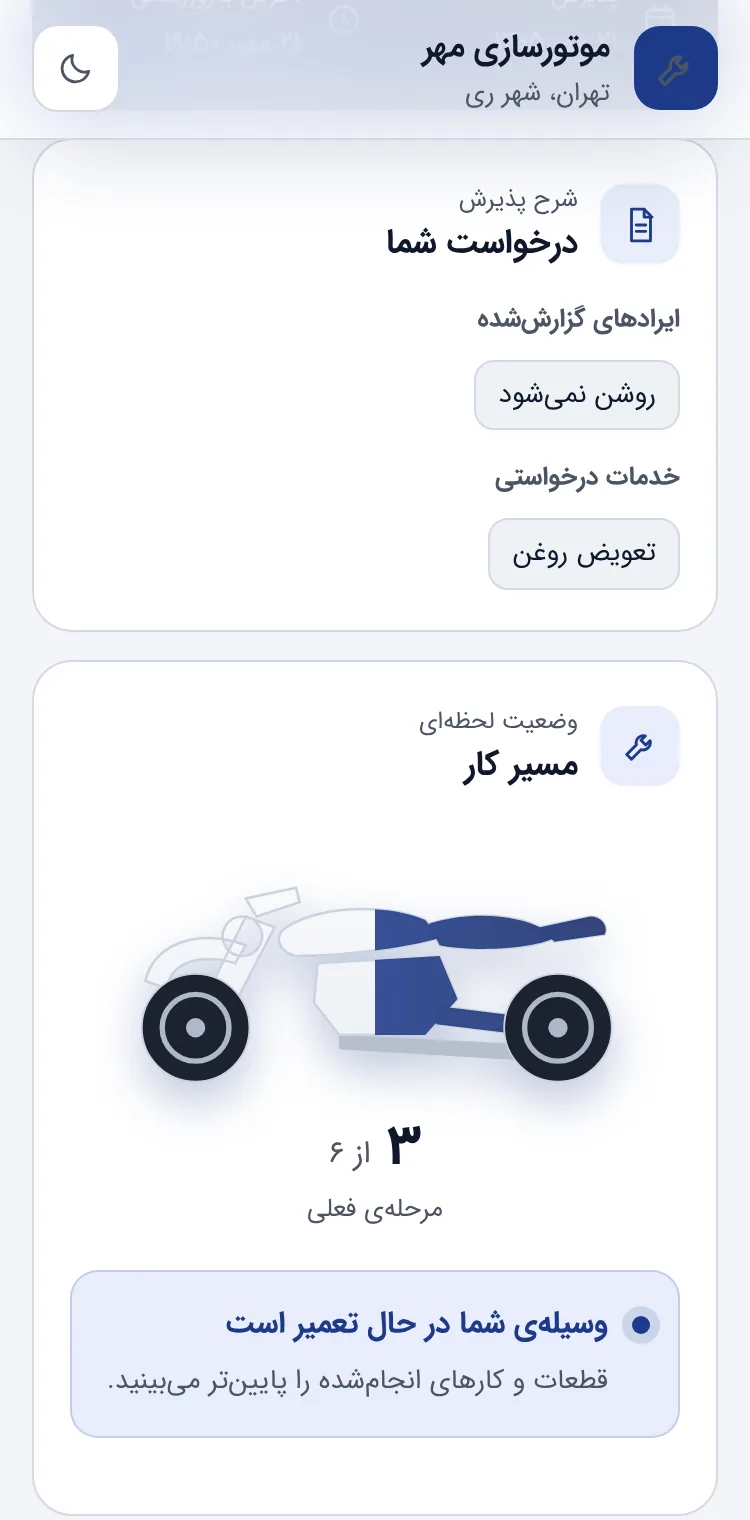
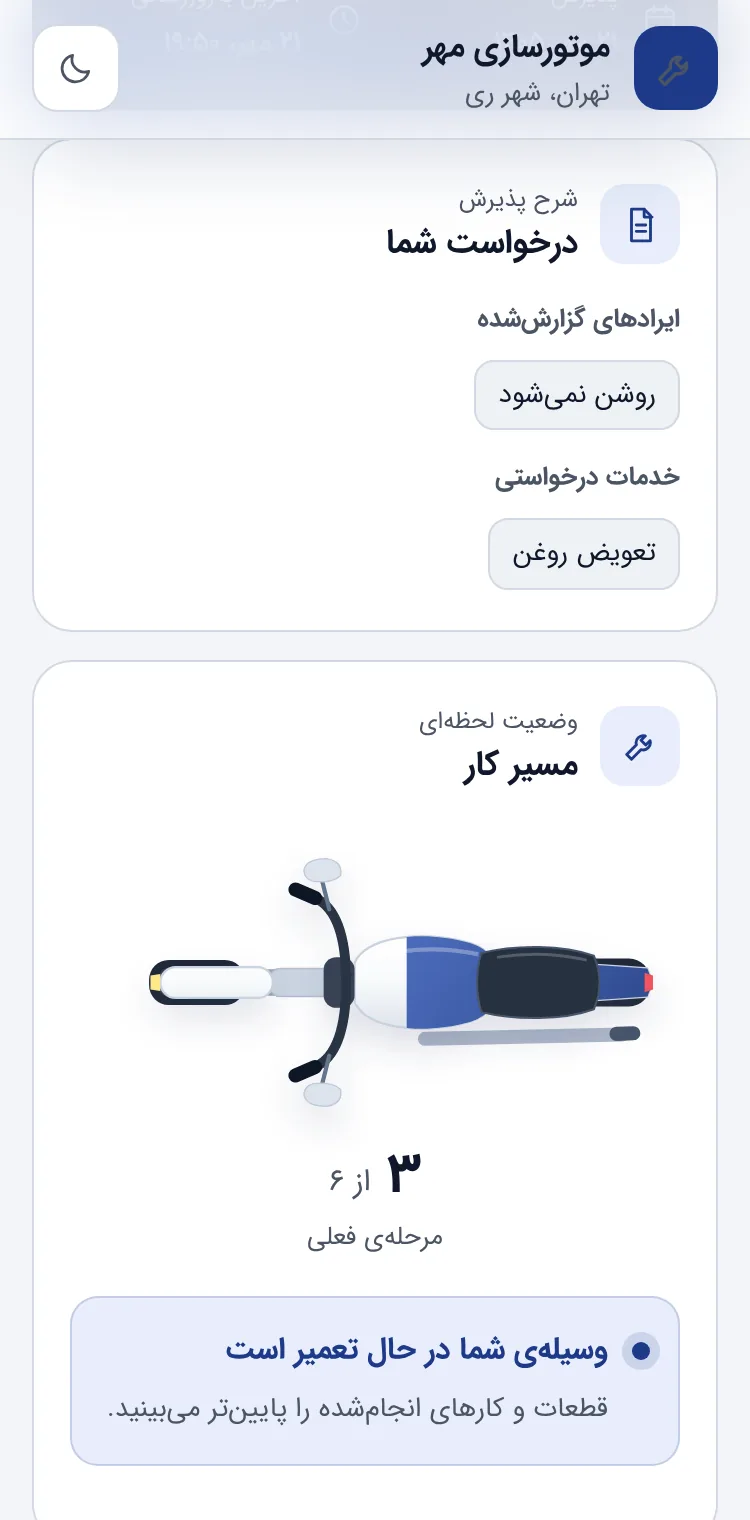
Tracking picture redesigned: realistic top-view vehicles in the supplied car's style
Car, SUV, van, pickup and motorcycle are drawn from above with glossy body, glass, mirrors, lamps and tyres
(car from the owner's reference illustration). The colour sweeps in from the rear and follows the state;
"ready for delivery" is fully coloured. Landing screenshot retaken from the new page.

Claude-Session: https://claude.ai/code/session_014YPF3wndHG5N2536yKacqt

diff --git a/web/src/vehicleShapes.ts b/web/src/vehicleShapes.ts
@@ -1,69 +1,182 @@
 /**
- * Vehicle silhouettes for the customer tracking picture (see vehicleProgress.tsx). Cars, SUVs, vans and pickups are
- * drawn from above facing left; the motorcycle from the side. viewBox 340×150. Generated once, edited by hand after.
+ * Vehicle pictures for the customer tracking page (see vehicleProgress.tsx). Every vehicle is seen from above,
+ * facing left, in a 520×260 box and symmetrical about y = 130 (the motorcycle's exhaust excepted). The colour fill
+ * sweeps in from the rear (the right edge of `span`) and is clipped to `body`.
+ *
+ * Paint tokens: "@body" (white metal), "@glass" (dark glass), "@paint" (the progress colour).
  */
+export type Layer = { d: string; fill?: string; stroke?: string; sw?: number; op?: number; fillOp?: number; cap?: boolean };
+
 export type VehicleShape = {
-  /** Body outline: the colour fill is clipped to it. */
+  /** Left and right edge of the body, for the colour sweep. */
+  span: [number, number];
+  /** Scale about the picture's centre (a motorcycle is narrow and would look small next to a car). */
+  zoom?: number;
+  /** Outline: the base metal and the clip for the colour. */
   body: string;
-  /** Tyres, drawn under the body. */
-  tyres: string[];
-  glass?: string;
-  roof?: string;
-  /** Pickup load bed. */
-  bed?: string;
-  /** Thin highlight strokes. */
-  lines?: string;
-  lamps: string[];
-  tails: string[];
-  /** Motorcycle: round wheels drawn over the body, and the exhaust under it. */
-  wheels?: [number, number, number][];
-  pipe?: string;
+  /** Drawn first: tyres, forks, exhaust. */
+  under: Layer[];
+  /** Highlights painted inside the colour (clipped to the body, above the fill). */
+  paint: Layer[];
+  /** Drawn last: glass, mirrors, lamps, details. */
+  over: Layer[];
 };
 
-export const VEHICLE_SHAPES: Record<string, VehicleShape> = {
-  car: {
-    body: "M18 75 C18 56 24 42 46 37 C74 31 98 27 124 25 L246 25 C286 26 310 38 319 54 C322 62 323 70 323 75 C323 80 322 88 319 96 C310 112 286 124 246 125 L124 125 C98 123 74 119 46 113 C24 108 18 94 18 75 Z M114 28 L122 20 L130 23 L122 30 Z M114 122 L122 130 L130 127 L122 120 Z",
-    tyres: ["M71 15 H103 A7 7 0 0 1 110 22 V29 A7 7 0 0 1 103 36 H71 A7 7 0 0 1 64 29 V22 A7 7 0 0 1 71 15 Z", "M71 114 H103 A7 7 0 0 1 110 121 V128 A7 7 0 0 1 103 135 H71 A7 7 0 0 1 64 128 V121 A7 7 0 0 1 71 114 Z", "M243 15 H275 A7 7 0 0 1 282 22 V29 A7 7 0 0 1 275 36 H243 A7 7 0 0 1 236 29 V22 A7 7 0 0 1 243 15 Z", "M243 114 H275 A7 7 0 0 1 282 121 V128 A7 7 0 0 1 275 135 H243 A7 7 0 0 1 236 128 V121 A7 7 0 0 1 243 114 Z"],
-    glass: "M124 38 C106 44 100 58 98 75 C100 92 106 106 124 112 L236 113 C250 106 254 92 254 75 C254 58 250 44 236 37 Z",
-    roof: "M156 46 H192 A18 18 0 0 1 210 64 V86 A18 18 0 0 1 192 104 H156 A18 18 0 0 1 138 86 V64 A18 18 0 0 1 156 46 Z",
-    lines: "M98 37 C80 40 62 46 44 55 M98 113 C80 110 62 104 44 95 M28 66 L28 84",
-    lamps: ["M22 52 L42 47 L42 53 L25 60 Z", "M22 98 L42 103 L42 97 L25 90 Z"],
-    tails: ["M318 58 L322 63 L322 69 L316 65 Z", "M318 92 L322 87 L322 81 L316 85 Z"],
-  },
-  suv: {
-    body: "M16 75 C16 54 22 40 44 34 C72 28 98 22 122 20 L264 20 C302 21 320 32 323 48 C325 58 325 68 325 75 C325 82 325 92 323 102 C320 118 302 129 264 130 L122 130 C98 128 72 122 44 116 C22 110 16 96 16 75 Z M134 24 L142 16 L150 19 L142 26 Z M134 126 L142 134 L150 131 L142 124 Z",
-    tyres: ["M66 9 H102 A8 8 0 0 1 110 17 V25 A8 8 0 0 1 102 33 H66 A8 8 0 0 1 58 25 V17 A8 8 0 0 1 66 9 Z", "M66 117 H102 A8 8 0 0 1 110 125 V133 A8 8 0 0 1 102 141 H66 A8 8 0 0 1 58 133 V125 A8 8 0 0 1 66 117 Z", "M252 9 H288 A8 8 0 0 1 296 17 V25 A8 8 0 0 1 288 33 H252 A8 8 0 0 1 244 25 V17 A8 8 0 0 1 252 9 Z", "M252 117 H288 A8 8 0 0 1 296 125 V133 A8 8 0 0 1 288 141 H252 A8 8 0 0 1 244 133 V125 A8 8 0 0 1 252 117 Z"],
-    glass: "M146 34 C128 41 122 57 120 75 C122 93 128 109 146 116 L270 116 C282 108 286 92 286 75 C286 58 282 42 270 34 Z",
-    roof: "M170 42 H256 A14 14 0 0 1 270 56 V94 A14 14 0 0 1 256 108 H170 A14 14 0 0 1 156 94 V56 A14 14 0 0 1 170 42 Z",
-    lines: "M120 32 C92 36 66 42 42 51 M120 118 C92 114 66 108 42 99 M168 40 H262 M168 110 H262",
-    lamps: ["M20 50 L40 45 L40 51 L23 58 Z", "M20 100 L40 105 L40 99 L23 92 Z"],
-    tails: ["M320 52 L324 57 L324 63 L318 59 Z", "M320 98 L324 93 L324 87 L318 91 Z"],
-  },
-  van: {
-    body: "M18 75 C18 54 24 40 44 35 C60 31 72 27 86 26 L302 26 C317 26 323 33 323 46 L323 75 L323 104 C323 117 317 124 302 124 L86 124 C72 123 60 119 44 115 C24 110 18 96 18 75 Z M96 29 L104 21 L112 24 L104 31 Z M96 121 L104 129 L112 126 L104 119 Z",
-    tyres: ["M60 11 H92 A8 8 0 0 1 100 19 V26 A8 8 0 0 1 92 34 H60 A8 8 0 0 1 52 26 V19 A8 8 0 0 1 60 11 Z", "M60 116 H92 A8 8 0 0 1 100 124 V131 A8 8 0 0 1 92 139 H60 A8 8 0 0 1 52 131 V124 A8 8 0 0 1 60 116 Z", "M256 11 H288 A8 8 0 0 1 296 19 V26 A8 8 0 0 1 288 34 H256 A8 8 0 0 1 248 26 V19 A8 8 0 0 1 256 11 Z", "M256 116 H288 A8 8 0 0 1 296 124 V131 A8 8 0 0 1 288 139 H256 A8 8 0 0 1 248 131 V124 A8 8 0 0 1 256 116 Z"],
-    glass: "M86 38 C72 45 68 58 66 75 C68 92 72 105 86 112 L114 112 L114 38 Z",
-    roof: "M134 33 H304 A10 10 0 0 1 314 43 V107 A10 10 0 0 1 304 117 H134 A10 10 0 0 1 124 107 V43 A10 10 0 0 1 134 33 Z",
-    lines: "M134 45 H304 M134 105 H304 M134 75 H304 M42 62 L42 88",
-    lamps: ["M22 52 L42 47 L42 53 L25 60 Z", "M22 98 L42 103 L42 97 L25 90 Z"],
-    tails: ["M318 40 L322 45 L322 51 L316 47 Z", "M318 110 L322 105 L322 99 L316 103 Z"],
-  },
-  pickup: {
-    body: "M18 75 C18 56 24 42 44 37 C66 32 90 28 112 26 L312 26 C320 26 324 32 324 44 L324 75 L324 106 C324 118 320 124 312 124 L112 124 C90 122 66 118 44 113 C24 108 18 94 18 75 Z M124 29 L132 21 L140 24 L132 31 Z M124 121 L132 129 L140 126 L132 119 Z",
-    tyres: ["M66 13 H96 A8 8 0 0 1 104 21 V27 A8 8 0 0 1 96 35 H66 A8 8 0 0 1 58 27 V21 A8 8 0 0 1 66 13 Z", "M66 115 H96 A8 8 0 0 1 104 123 V129 A8 8 0 0 1 96 137 H66 A8 8 0 0 1 58 129 V123 A8 8 0 0 1 66 115 Z", "M250 13 H280 A8 8 0 0 1 288 21 V27 A8 8 0 0 1 280 35 H250 A8 8 0 0 1 242 27 V21 A8 8 0 0 1 250 13 Z", "M250 115 H280 A8 8 0 0 1 288 123 V129 A8 8 0 0 1 280 137 H250 A8 8 0 0 1 242 129 V123 A8 8 0 0 1 250 115 Z"],
-    glass: "M134 38 C120 44 116 58 114 75 C116 92 120 106 134 112 L178 112 L178 38 Z",
-    roof: "M194 44 H222 A10 10 0 0 1 232 54 V96 A10 10 0 0 1 222 106 H194 A10 10 0 0 1 184 96 V54 A10 10 0 0 1 194 44 Z",
-    bed: "M236 36 H306 A6 6 0 0 1 312 42 V108 A6 6 0 0 1 306 114 H236 A6 6 0 0 1 230 108 V42 A6 6 0 0 1 236 36 Z",
-    lines: "M112 36 C86 39 64 45 42 53 M112 114 C86 111 64 105 42 97",
-    lamps: ["M22 52 L42 47 L42 53 L25 60 Z", "M22 98 L42 103 L42 97 L25 90 Z"],
-    tails: ["M318 40 L322 45 L322 51 L316 47 Z", "M318 110 L322 105 L322 99 L316 103 Z"],
-  },
-  motorcycle: {
-    body: "M70 102 L98 46 L114 52 L86 106 Z M42 82 C46 62 70 52 98 62 L92 72 C72 66 56 72 54 86 Z M98 36 L126 30 L128 38 L104 46 Z M118 54 C136 40 176 38 198 48 L206 58 C186 64 150 68 126 68 C118 66 114 60 118 54 Z M200 50 C226 42 250 46 262 52 L270 58 C258 64 226 66 206 62 Z M262 52 L290 46 C297 46 300 52 298 56 L270 60 Z M138 72 L206 68 L216 92 L198 112 L150 112 L136 94 Z M206 96 L270 104 L270 114 L204 106 Z M96 46 A11 11 0 1 0 96.1 46 Z",
-    tyres: [],
-    lamps: [],
-    tails: [],
-    wheels: [[70, 108, 30], [272, 108, 30]],
-    pipe: "M150 112 L272 118 L284 124 L284 128 L150 120 Z",
-  },
+const H = 260;
+
+/** Mirror a path made of M/L/C/Q/Z commands top-to-bottom (y → 260 − y). */
+function flip(d: string): string {
+  let n = 0;
+  return d.replace(/[MLCQZ]|-?\d+(?:\.\d+)?/g, (t) => {
+    if (/[A-Z]/.test(t)) { n = 0; return t; }
+    return n++ % 2 === 1 ? String(H - Number(t)) : t;
+  });
+}
+const both = (d: string) => `${d} ${flip(d)}`;
+
+function rr(x: number, y: number, w: number, h: number, r: number) {
+  return `M${x + r} ${y}H${x + w - r}A${r} ${r} 0 0 1 ${x + w} ${y + r}V${y + h - r}A${r} ${r} 0 0 1 ${x + w - r} ${y + h}H${x + r}A${r} ${r} 0 0 1 ${x} ${y + h - r}V${y + r}A${r} ${r} 0 0 1 ${x + r} ${y}Z`;
+}
+/** A rounded rectangle and its mirror image. */
+const rrBoth = (x: number, y: number, w: number, h: number, r: number) => `${rr(x, y, w, h, r)} ${rr(x, H - y - h, w, h, r)}`;
+
+const TYRE = "#202938";
+const RIM = "#394354";
+const GLASS_EDGE = "#DCE3ED";
+const MIRROR: Pick<Layer, "fill" | "stroke" | "sw"> = { fill: "#DCE3EC", stroke: "#BFC9D8", sw: 1 };
+const LAMP = "#FDE68A";
+const TAIL = "#F05260";
+
+function wheels(xs: number[], y: number, w: number, h: number, r: number): Layer[] {
+  return [
+    { d: xs.map((x) => rrBoth(x, y, w, h, r)).join(" "), fill: TYRE },
+    { d: xs.map((x) => rrBoth(x + 6, y + 5, w - 12, h - 10, r - 3)).join(" "), fill: RIM },
+  ];
+}
+
+const glint = (d: string, op = 0.38): Layer => ({ d, stroke: "#FFFFFF", sw: 2, op, cap: true });
+
+/* ───────── car (sedan) ───────── */
+const CAR_BODY = "M105 130C108 98 137 78 182 67L246 55Q267 51 289 53L380 56C422 59 448 80 456 108L460 130L456 152C448 180 422 201 380 204L289 207Q267 209 246 205L182 193C137 182 108 162 105 130Z";
+const car: VehicleShape = {
+  span: [105, 460],
+  body: CAR_BODY,
+  under: wheels([143, 383], 39, 56, 46, 11),
+  paint: [
+    { d: "M250 58L380 61Q432 65 448 104", stroke: "#FFFFFF", sw: 3, op: 0.22 },
+    { d: "M393 78Q427 89 437 112L440 130L437 148Q427 171 393 182L383 173L383 87Z", fill: "#FFFFFF", fillOp: 0.055, stroke: "#FFFFFF", sw: 1, op: 0.12 },
+  ],
+  over: [
+    { d: "M221 78Q203 85 197 106L193 130L197 154Q203 175 221 182L270 182L270 78Z", fill: "@glass", stroke: "#F1F5F9", sw: 2 },
+    { d: "M244 76Q265 69 286 71L356 75Q374 77 381 96L385 130L381 164Q374 183 356 185L286 189Q265 191 244 184L226 165L222 130L226 95Z", fill: "@glass", stroke: GLASS_EDGE, sw: 2 },
+    glint("M251 83L356 84"), glint("M251 177L356 176", 0.25),
+    { d: both("M243 56L256 46L268 52L258 61Z"), ...MIRROR },
+    { d: both("M111 101L133 92L137 99L115 108Z"), fill: LAMP },
+    { d: both("M451 106L459 111L459 120L452 116Z"), fill: TAIL },
+    { d: both("M113 123L121 123"), stroke: "#9CA9B9", sw: 2, cap: true },
+    { d: "M127 94Q152 78 199 72", stroke: "#FFFFFF", sw: 2, op: 0.9, cap: true },
+    { d: "M127 166Q152 182 199 188", stroke: "#FFFFFF", sw: 2, op: 0.65, cap: true },
+  ],
 };
+
+/* ───────── SUV: taller, longer cabin, roof rails ───────── */
+const suv: VehicleShape = {
+  span: [100, 466],
+  body: "M100 130C103 96 134 74 180 63L240 51Q262 47 286 49L392 52C436 55 458 78 463 108L466 130L463 152C458 182 436 205 392 208L286 211Q262 213 240 209L180 197C134 186 103 164 100 130Z",
+  under: wheels([138, 386], 33, 62, 50, 12),
+  paint: [
+    { d: "M246 54L392 57Q440 61 456 102", stroke: "#FFFFFF", sw: 3, op: 0.22 },
+  ],
+  over: [
+    { d: "M238 72Q262 65 288 67L384 71Q408 73 415 96L419 130L415 164Q408 187 384 189L288 193Q262 195 238 188L220 168L216 130L220 94Z", fill: "#FFFFFF", fillOp: 0.12, stroke: "#FFFFFF", sw: 1.6, op: 0.55 },
+    { d: "M214 74Q196 82 190 104L186 130L190 156Q196 178 214 186L262 186L262 74Z", fill: "@glass", stroke: "#F1F5F9", sw: 2 },
+    { d: "M278 88L368 90Q386 92 388 108L390 130L388 152Q386 168 368 170L278 172Q264 170 262 154L260 130L262 106Q264 90 278 88Z", fill: "@glass", stroke: GLASS_EDGE, sw: 2 },
+    glint("M272 96L364 98"), glint("M272 164L364 162", 0.25),
+    { d: "M398 86Q410 92 412 108L414 130L412 152Q410 168 398 174Z", fill: "@glass", stroke: GLASS_EDGE, sw: 1.6 },
+    { d: both("M242 60L396 62"), stroke: "#8995A8", sw: 3, cap: true },
+    { d: both("M234 52L248 41L261 48L251 58Z"), ...MIRROR },
+    { d: both("M106 100L130 90L134 98L110 108Z"), fill: LAMP },
+    { d: both("M456 104L464 109L464 119L457 114Z"), fill: TAIL },
+    { d: both("M108 122L117 122"), stroke: "#9CA9B9", sw: 2, cap: true },
+    { d: "M124 92Q150 76 196 70", stroke: "#FFFFFF", sw: 2, op: 0.9, cap: true },
+    { d: "M124 168Q150 184 196 190", stroke: "#FFFFFF", sw: 2, op: 0.65, cap: true },
+  ],
+};
+
+/* ───────── van: short nose, long box, ribbed roof ───────── */
+const van: VehicleShape = {
+  span: [108, 472],
+  body: "M108 130C110 100 132 80 170 72L216 63Q232 60 248 60L440 60C458 60 468 72 470 92L472 130L470 168C468 188 458 200 440 200L248 200Q232 200 216 197L170 188C132 180 110 160 108 130Z",
+  under: wheels([148, 392], 43, 58, 46, 11),
+  paint: [
+    { d: "M250 64L438 64Q460 66 464 94", stroke: "#FFFFFF", sw: 3, op: 0.2 },
+  ],
+  over: [
+    { d: "M196 78Q180 86 176 106L173 130L176 154Q180 174 196 182L232 182L232 78Z", fill: "@glass", stroke: "#F1F5F9", sw: 2 },
+    { d: "M244 76L440 76Q456 76 458 92L460 130L458 168Q456 184 440 184L244 184Z", fill: "#FFFFFF", fillOp: 0.1, stroke: "#FFFFFF", sw: 1.6, op: 0.55 },
+    { d: "M258 100L446 100M258 130L446 130M258 160L446 160", stroke: "#FFFFFF", sw: 2, op: 0.4, cap: true },
+    glint("M184 88L226 88"),
+    { d: both("M188 62L200 50L211 56L203 66Z"), ...MIRROR },
+    { d: both("M114 102L136 94L140 101L118 109Z"), fill: LAMP },
+    { d: both("M464 80L470 84L470 94L465 90Z"), fill: TAIL },
+    { d: both("M116 124L124 124"), stroke: "#9CA9B9", sw: 2, cap: true },
+    { d: "M132 96Q154 82 192 76", stroke: "#FFFFFF", sw: 2, op: 0.9, cap: true },
+    { d: "M132 164Q154 178 192 184", stroke: "#FFFFFF", sw: 2, op: 0.65, cap: true },
+  ],
+};
+
+/* ───────── pickup: cab and an open load bed ───────── */
+const pickup: VehicleShape = {
+  span: [104, 468],
+  body: "M104 130C107 98 134 78 176 68L236 56Q256 52 276 54L440 56C456 56 464 66 466 84L468 130L466 176C464 194 456 204 440 204L276 206Q256 208 236 204L176 192C134 182 107 162 104 130Z",
+  under: wheels([140, 386], 39, 58, 46, 11),
+  paint: [
+    { d: "M240 58L330 59", stroke: "#FFFFFF", sw: 3, op: 0.22 },
+  ],
+  over: [
+    { d: "M214 78Q198 86 192 106L189 130L192 154Q198 174 214 182L250 182L250 78Z", fill: "@glass", stroke: "#F1F5F9", sw: 2 },
+    { d: "M260 78L300 78Q314 80 316 96L318 130L316 164Q314 180 300 182L260 182Z", fill: "@glass", stroke: GLASS_EDGE, sw: 2 },
+    glint("M266 85L304 85"),
+    // load bed: dark liner with ribs
+    { d: "M332 72L436 72Q448 72 449 86L451 130L449 174Q448 188 436 188L332 188Z", fill: "#0F172A", fillOp: 0.42, stroke: "#FFFFFF", sw: 1.6, op: 0.5 },
+    { d: "M350 80L350 180M372 80L372 180M394 80L394 180M416 80L416 180", stroke: "#FFFFFF", sw: 2, op: 0.18 },
+    { d: both("M226 58L239 47L251 53L241 63Z"), ...MIRROR },
+    { d: both("M110 101L132 92L136 99L114 108Z"), fill: LAMP },
+    { d: both("M460 80L466 84L466 94L461 90Z"), fill: TAIL },
+    { d: both("M112 123L120 123"), stroke: "#9CA9B9", sw: 2, cap: true },
+    { d: "M128 94Q152 80 196 73", stroke: "#FFFFFF", sw: 2, op: 0.9, cap: true },
+    { d: "M128 166Q152 180 196 187", stroke: "#FFFFFF", sw: 2, op: 0.65, cap: true },
+  ],
+};
+
+/* ───────── motorcycle, from above: fender, tank, seat, tail, handlebar, exhaust ───────── */
+const MOTO_TANK = "M250 116C258 98 296 92 332 102C348 107 352 118 352 130C352 142 348 153 332 158C296 168 258 162 250 144Z";
+const motorcycle: VehicleShape = {
+  span: [112, 462],
+  zoom: 1.2,
+  body: `${rr(112, 119, 80, 22, 11)} ${MOTO_TANK} M414 117L458 120Q463 130 458 140L414 143Z`,
+  under: [
+    { d: `${rr(104, 114, 68, 32, 14)} ${rr(388, 113, 72, 34, 15)}`, fill: TYRE },
+    { d: `${rr(110, 119, 56, 22, 10)} ${rr(394, 118, 60, 24, 11)}`, fill: RIM },
+    { d: "M168 123L236 123M168 137L236 137", stroke: "#9AA6B8", sw: 5, cap: true },
+    { d: rr(190, 120, 66, 20, 7), fill: "#CBD5E1", stroke: "#B3BFD0", sw: 1 },
+    { d: "M300 170L440 167", stroke: "#AEB8C9", sw: 10, cap: true },
+    { d: "M436 166.5L448 166", stroke: "#475569", sw: 10, cap: true },
+  ],
+  paint: [
+    { d: "M262 112Q300 102 338 110", stroke: "#FFFFFF", sw: 3, op: 0.3 },
+  ],
+  over: [
+    { d: "M340 109C364 103 398 103 420 111Q428 130 420 149C398 157 364 157 340 151Q334 130 340 109Z", fill: "#263041", stroke: "#475569", sw: 1.4 },
+    { d: "M352 112Q384 107 414 114", stroke: "#FFFFFF", sw: 2, op: 0.22, cap: true },
+    { d: rr(228, 112, 22, 36, 9), fill: "#394354" },
+    { d: "M222 70Q244 80 244 130Q244 180 222 190", stroke: "#2B3444", sw: 7, cap: true },
+    { d: both("M222 70L208 64"), stroke: "#111827", sw: 10, cap: true },
+    { d: both("M232 78L226 54"), stroke: "#64748B", sw: 3, cap: true },
+    { d: both("M214 50Q216 42 230 42Q242 44 240 54Q234 60 220 58Q214 56 214 50Z"), ...MIRROR },
+    { d: "M105 125L112 124L112 136L105 135Z", fill: LAMP },
+    { d: "M456 123L462 125L462 135L456 137Z", fill: TAIL },
+  ],
+};
+
+export const VEHICLE_SHAPES: Record<string, VehicleShape> = { car, suv, van, pickup, motorcycle };

diff --git a/web/src/vehicleProgress.tsx b/web/src/vehicleProgress.tsx
@@ -1,12 +1,13 @@
 import { useEffect, useId, useState } from "react";
-import { VEHICLE_SHAPES } from "./vehicleShapes";
+import { VEHICLE_SHAPES, type Layer } from "./vehicleShapes";
 
 export type VehicleTone = "going" | "waiting" | "done" | "cancelled";
 
 /**
  * The customer's tracking page shows where the work stands as the customer's own kind of vehicle (car, SUV, van,
- * pickup, motorcycle) that fills with colour from the rear to the front (the page is right-to-left). It is the
- * only progress picture on that page; the step counter sits under it. Shapes live in vehicleShapes.ts.
+ * pickup, motorcycle), seen from above, that fills with colour from the rear to the front (the page is
+ * right-to-left). It is the only progress picture on that page; the step counter sits under it.
+ * Shapes live in vehicleShapes.ts; the colour comes from the state (see .vp in styles.css).
  */
 export function VehicleProgress({ kind, progress, tone, label }: {
   kind: string | undefined;
@@ -18,6 +19,9 @@ export function VehicleProgress({ kind, progress, tone, label }: {
 }) {
   const id = useId();
   const v = VEHICLE_SHAPES[kind ?? ""] ?? VEHICLE_SHAPES.car;
+  const [from, to] = v.span;
+  const z = v.zoom ?? 1;
+  const fit = z === 1 ? undefined : `translate(${((from + to) / 2) * (1 - z)} ${130 * (1 - z)}) scale(${z})`;
   // Start empty and fill on the next frame so the colour sweeps in once when the page opens.
   const [shown, setShown] = useState(0);
   useEffect(() => {
@@ -25,34 +29,42 @@ export function VehicleProgress({ kind, progress, tone, label }: {
     return () => cancelAnimationFrame(frame);
   }, [progress]);
 
+  const paint = (t?: string) => (t === "@body" || t === "@glass" || t === "@paint" ? `url(#${id}-${t.slice(1)})` : t);
+  const layer = (l: Layer, i: number) => (
+    <path key={i} d={l.d} fill={paint(l.fill) ?? "none"} fillOpacity={l.fillOp} stroke={l.stroke} strokeWidth={l.sw}
+      strokeOpacity={l.op} strokeLinecap={l.cap ? "round" : undefined} />
+  );
+
   return (
     <div className={`vp ${tone}`}>
-      <svg viewBox="0 0 340 150" role="img" aria-label={label}>
+      <svg viewBox="0 0 520 260" role="img" aria-label={label}>
         <defs>
-          <linearGradient id={`${id}-b`} x1="0" y1="0" x2="0" y2="1"><stop offset="0" className="vp-b1" /><stop offset="1" className="vp-b2" /></linearGradient>
-          <linearGradient id={`${id}-g`} x1="0" y1="0" x2="1" y2="1"><stop offset="0" stopColor="#2a3347" /><stop offset="1" stopColor="#0f1626" /></linearGradient>
-          <linearGradient id={`${id}-f`} x1="0" y1="0" x2="1" y2="0"><stop offset="0" className="vp-f1" /><stop offset="1" className="vp-f2" /></linearGradient>
-          <clipPath id={`${id}-c`}><path d={v.body} /></clipPath>
+          <linearGradient id={`${id}-body`} x1="0" y1="0" x2="0" y2="1">
+            <stop offset="0" stopColor="#FFFFFF" /><stop offset="0.48" stopColor="#F8FAFC" /><stop offset="1" stopColor="#DDE3EB" />
+          </linearGradient>
+          <linearGradient id={`${id}-glass`} x1="0" y1="0" x2="1" y2="1">
+            <stop offset="0" stopColor="#30394C" /><stop offset="1" stopColor="#111827" />
+          </linearGradient>
+          <linearGradient id={`${id}-paint`} x1="0" y1="0" x2="1" y2="1">
+            <stop offset="0" className="vp-p1" /><stop offset="1" className="vp-p2" />
+          </linearGradient>
+          <filter id={`${id}-shadow`} x="-30%" y="-40%" width="160%" height="200%">
+            <feDropShadow dx="0" dy="13" stdDeviation="12" floodColor="#34466F" floodOpacity="0.17" />
+          </filter>
+          <clipPath id={`${id}-clip`}><path d={v.body} /></clipPath>
         </defs>
-        {v.tyres.map((d, i) => <path key={i} className="vp-tyre" d={d} />)}
-        {v.pipe && <path className="vp-pipe" d={v.pipe} />}
-        <path className="vp-body" d={v.body} fill={`url(#${id}-b)`} />
-        {v.bed && <path className="vp-bed" d={v.bed} />}
-        {v.glass && <path d={v.glass} fill={`url(#${id}-g)`} />}
-        {v.roof && <path className="vp-roof" d={v.roof} />}
-        <g clipPath={`url(#${id}-c)`}>
-          <rect className="vp-fill" x="0" y="0" width="340" height="150" fill={`url(#${id}-f)`} style={{ transform: `scaleX(${shown})` }} />
-        </g>
-        {v.lines && <path className="vp-sheen" d={v.lines} />}
-        {v.lamps.map((d, i) => <path key={`l${i}`} className="vp-lamp" d={d} />)}
-        {v.tails.map((d, i) => <path key={`t${i}`} className="vp-tail" d={d} />)}
-        {v.wheels?.map(([cx, cy, r]) => (
-          <g key={cx}>
-            <circle className="vp-tyre" cx={cx} cy={cy} r={r} />
-            <circle className="vp-rim" cx={cx} cy={cy} r={r * 0.62} />
-            <circle className="vp-hub" cx={cx} cy={cy} r={r * 0.18} />
+        <g transform={fit}>
+        {v.under.map(layer)}
+        <g filter={`url(#${id}-shadow)`}>
+          <path d={v.body} fill={`url(#${id}-body)`} stroke="#C8D1DF" strokeWidth="1.6" />
+          <g clipPath={`url(#${id}-clip)`}>
+            <rect className="vp-fill" x={from} y="0" width={to - from} height="260" fill={`url(#${id}-paint)`}
+              style={{ transform: `scaleX(${shown})`, transformOrigin: `${to}px 130px` }} />
+            {v.paint.map(layer)}
           </g>
-        ))}
+          {v.over.map(layer)}
+        </g>
+        </g>
       </svg>
     </div>
   );

diff --git a/web/src/styles.css b/web/src/styles.css
@@ -1573,26 +1573,14 @@ a.lg-text { display: inline-flex; align-items: center; text-decoration: none; }
 .tk-note strong { color: var(--accent); font-size: 0.95rem; line-height: 1.7; }
 .tk-note p { margin: 0; color: var(--muted); font-size: 0.85rem; line-height: 1.9; }
 
-.vp { --vp: var(--accent); display: flex; justify-content: center; padding: 6px 0 2px; }
-.vp.waiting { --vp: var(--fuel-1); }
-.vp.done { --vp: var(--success); }
-.vp.cancelled { --vp: var(--stage-gray); }
-.vp svg { width: 100%; max-width: 340px; height: auto; overflow: visible; filter: drop-shadow(0 10px 12px rgba(30, 58, 138, 0.25)); filter: drop-shadow(0 10px 12px color-mix(in srgb, var(--vp) 28%, transparent)); }
-.vp-b1 { stop-color: #ffffff; stop-color: color-mix(in srgb, var(--surface-2), #ffffff 60%); }
-.vp-b2 { stop-color: var(--surface-2); }
-.vp-body { stroke: var(--border-strong); stroke-width: 1.4; }
-.vp-roof { fill: #f4f7fc; fill: color-mix(in srgb, var(--surface-2), #ffffff 55%); fill-opacity: 0.9; }
-.vp-bed { fill: #e3e8f0; fill: color-mix(in srgb, var(--surface-2), #000000 10%); stroke: var(--border-strong); stroke-width: 1.5; }
-.vp-fill { fill-opacity: 0.88; transform-origin: 100% 50%; transform-box: view-box; transition: transform 1100ms cubic-bezier(0.23, 1, 0.32, 1); }
-.vp-f1 { stop-color: var(--vp); }
-.vp-f2 { stop-color: var(--vp); stop-color: color-mix(in srgb, var(--vp), #000000 32%); }
-.vp-sheen { fill: none; stroke: #ffffff; stroke-opacity: 0.55; stroke-width: 1.6; stroke-linecap: round; }
-.vp-lamp { fill: #ffe7a3; }
-.vp-tail { fill: #e5484d; }
-.vp-tyre { fill: #1b2230; stroke: var(--border-strong); stroke-width: 1; }
-.vp-rim { fill: none; stroke: #aeb8c9; stroke-width: 3; }
-.vp-hub { fill: #aeb8c9; }
-.vp-pipe { fill: #b6bfce; }
+.vp { --p1: #5476C9; --p2: #263F80; display: flex; justify-content: center; padding: 4px 0 0; }
+.vp.waiting { --p1: #F5A25D; --p2: #C2570C; }
+.vp.done { --p1: #4CC17A; --p2: #1F7A3D; }
+.vp.cancelled { --p1: #A3ACBA; --p2: #5B6472; }
+.vp svg { width: 100%; max-width: 440px; height: auto; overflow: visible; }
+.vp-p1 { stop-color: var(--p1); }
+.vp-p2 { stop-color: var(--p2); }
+.vp-fill { transform-box: view-box; transition: transform 1200ms cubic-bezier(0.23, 1, 0.32, 1); }
 @media (prefers-reduced-motion: reduce) { .vp-fill { transition: none; } }
 .tk-step-stat { display: flex; flex-direction: column; align-items: center; gap: 2px; margin: 4px 0 18px; }
 .tk-step-stat strong { color: var(--text); font-size: 1.7rem; font-weight: 800; line-height: 1.3; }

diff --git a/web/src/track.tsx b/web/src/track.tsx
@@ -99,7 +99,8 @@ function journey(t: Track): { progress: number; tone: VehicleTone; step: { at: n
   if (s.key === "delivered") return { progress: 1, tone: "done", step: null };
   const at = t.stages ? t.stages.findIndex((x) => x.state === "current") + 1 : 0;
   const of = t.stages?.length ?? 0;
-  const progress = at > 0 && of > 0 ? at / of : s.key === "ready" ? 1 : 0;
+  // Ready for delivery: the work is finished, so the vehicle is fully coloured even though delivery is one step away.
+  const progress = s.key === "ready" ? 1 : at > 0 && of > 0 ? at / of : 0;
   const tone: VehicleTone = s.key === "ready" ? "done" : s.category === "waiting" || s.waitReason ? "waiting" : "going";
   return { progress, tone, step: at > 0 && of > 0 ? { at, of } : null };
 }
